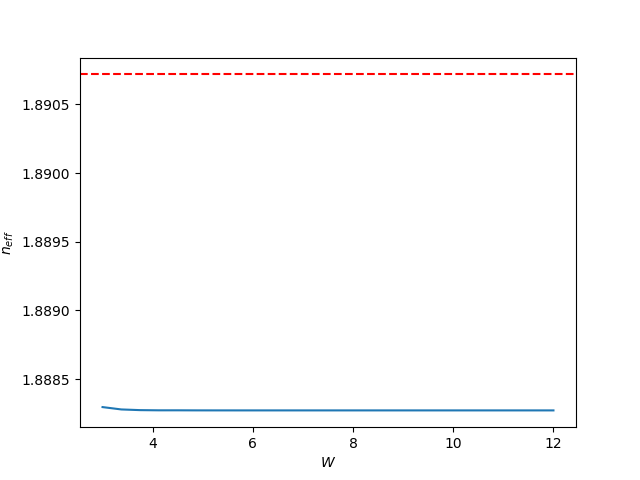
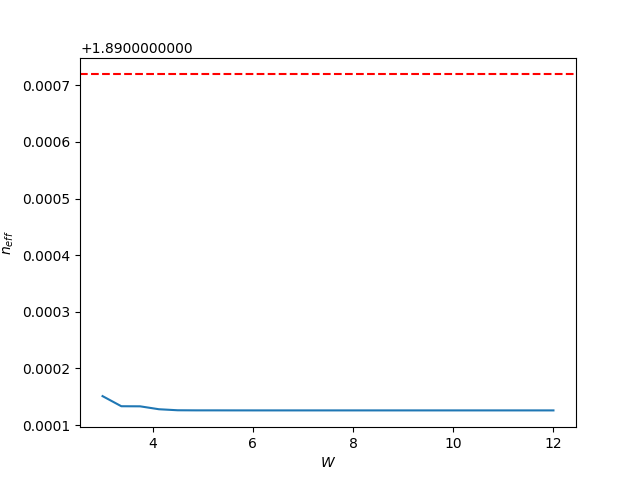
Benchmark update

diff --git a/examples/waveguide_modes/wg_modes_3D_LiNbO3_benchmark.py b/examples/waveguide_modes/wg_modes_3D_LiNbO3_benchmark.py
@@ -29,7 +29,7 @@ neffs = []
 
 # for dxi in dxs:
 for wi in Ws:
-    dxi = 0.1
+    dxi = 0.02
     ####################################################################################
     # Set up the size of the problem
     ####################################################################################
@@ -166,7 +166,7 @@ if NOT_PARALLEL:
 
     fig, ax = plt.subplots()
     ax.plot(neffs[:,0],neffs[:,2])
-    ax.axhline(comsol_result,color='red',ls='dashed')
+    # ax.axhline(comsol_result,color='red',ls='dashed')
     ax.set_xlabel(r'$W$')
     ax.set_ylabel(r'Time [s]')
     plt.savefig('BenchmarkTime.png')
